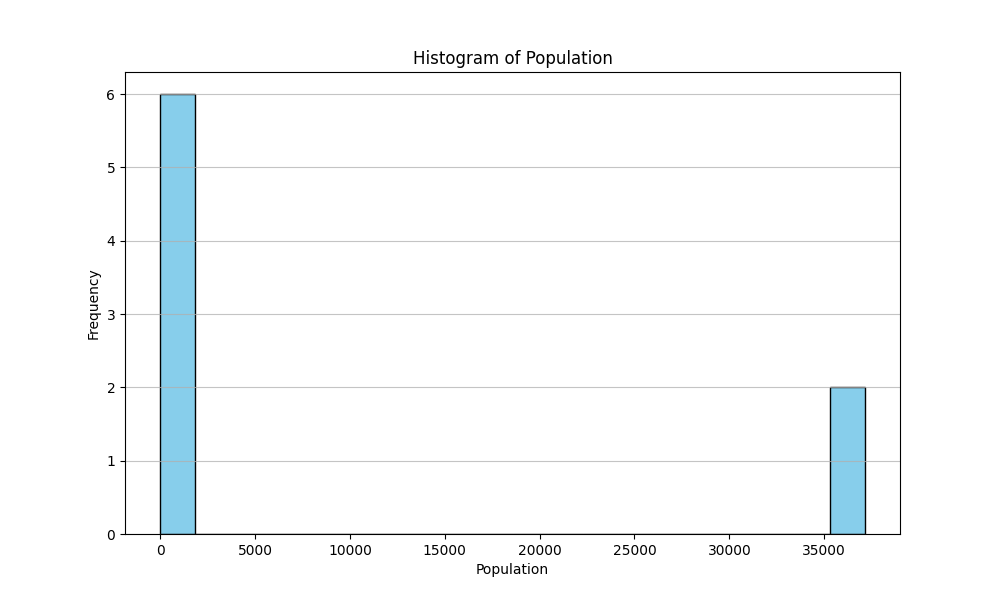
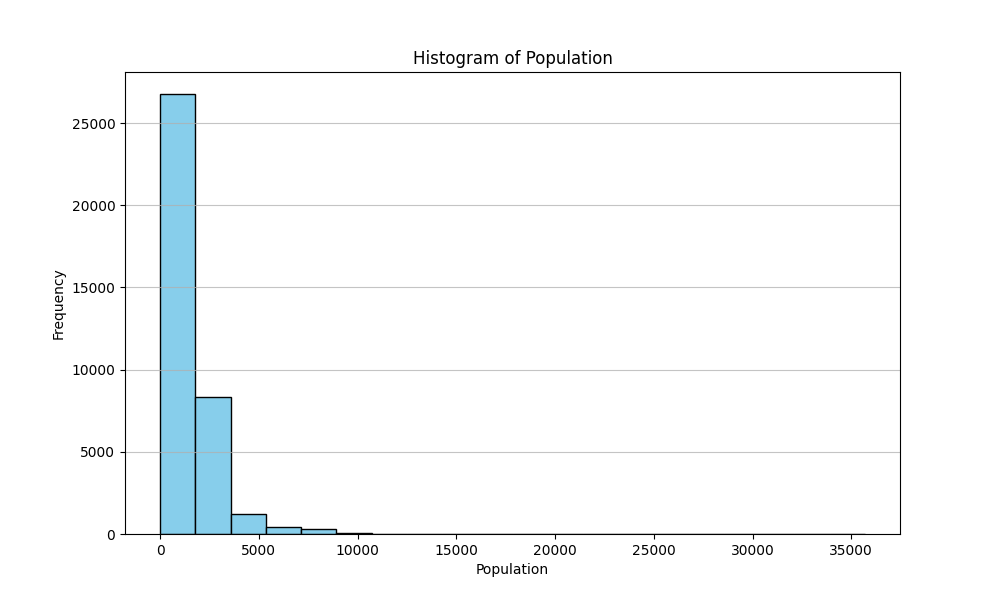
Updates

diff --git a/main.py b/main.py
@@ -16,8 +16,8 @@ def save_to_md():
 
 
 if __name__ == "__main__":
-    df = g_describe()
-    print(df)
+    df = load_dataset()
+    print(g_describe())
     create_histogram(df, "id")
     create_histogram(df, "HouseAge")
     create_histogram(df, "Population")
